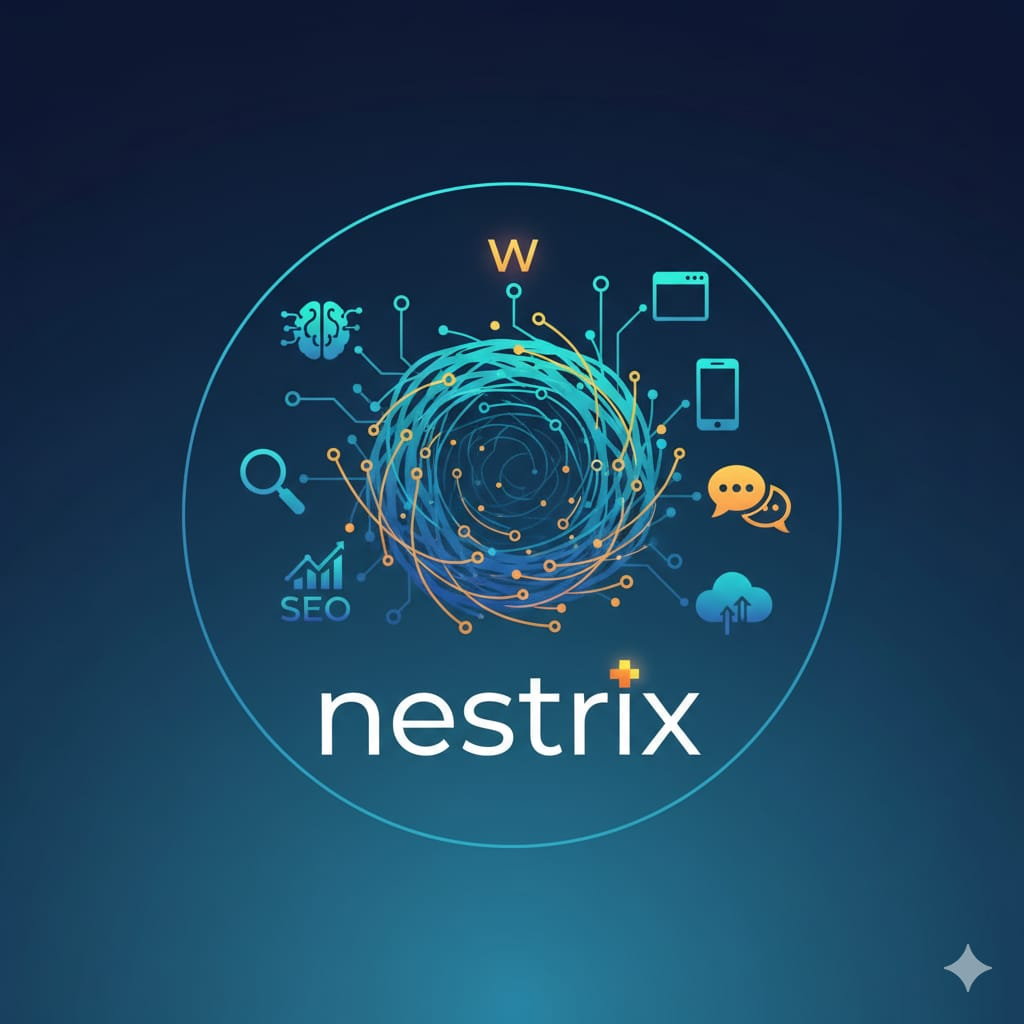
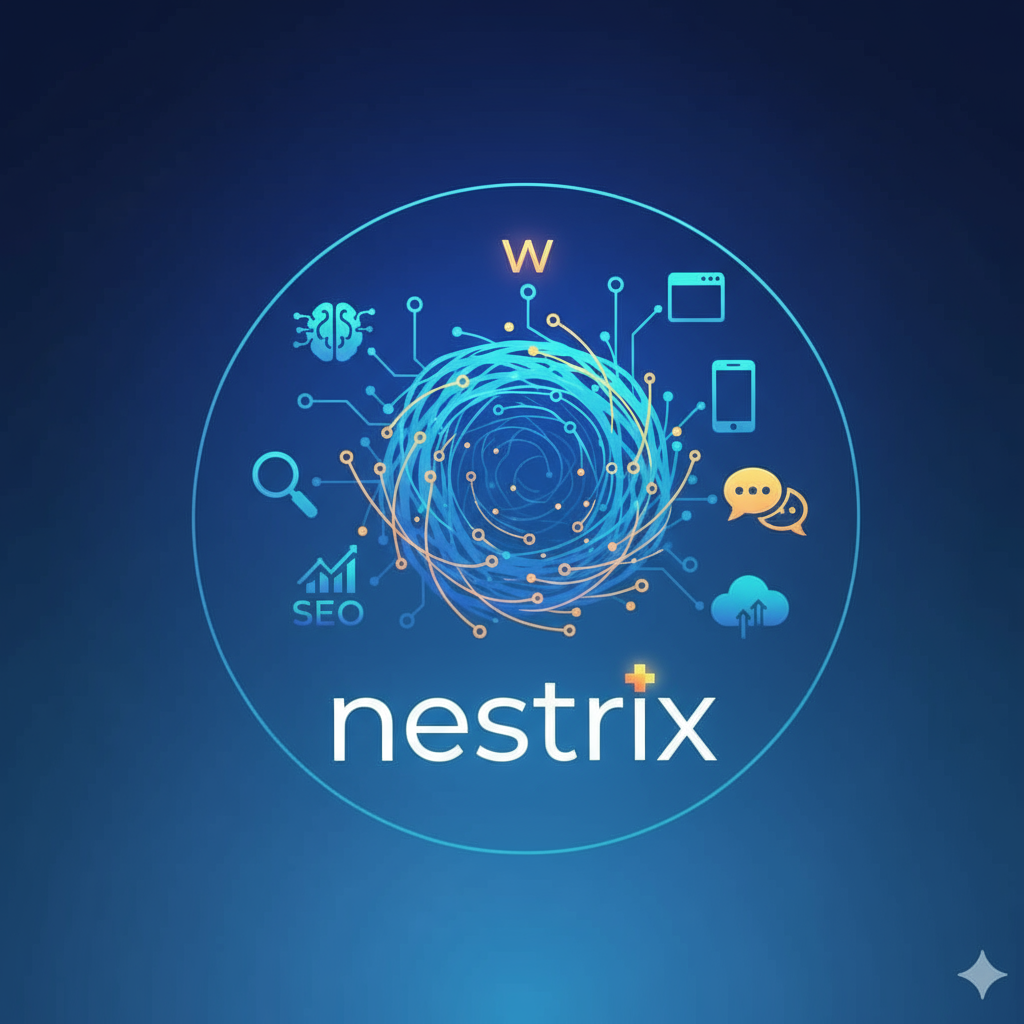
Refactor: Improve visuals and mobile optimization

diff --git a/src/components/OurWorkSection.tsx b/src/components/OurWorkSection.tsx
@@ -45,6 +45,8 @@ export const OurWorkSection = () => {
   const [currentIndex, setCurrentIndex] = useState(0);
   const [isVisible, setIsVisible] = useState(false);
   const scrollContainerRef = useRef<HTMLDivElement>(null);
+  const touchStartX = useRef(0);
+  const touchEndX = useRef(0);
 
   useEffect(() => {
     const observer = new IntersectionObserver(
@@ -61,6 +63,23 @@ export const OurWorkSection = () => {
 
     return () => observer.disconnect();
   }, []);
+
+  const handleTouchStart = (e: React.TouchEvent) => {
+    touchStartX.current = e.touches[0].clientX;
+  };
+
+  const handleTouchMove = (e: React.TouchEvent) => {
+    touchEndX.current = e.touches[0].clientX;
+  };
+
+  const handleTouchEnd = () => {
+    if (touchStartX.current - touchEndX.current > 75) {
+      handleNext();
+    }
+    if (touchStartX.current - touchEndX.current < -75) {
+      handlePrevious();
+    }
+  };
 
   const scrollToIndex = (index: number) => {
     if (scrollContainerRef.current) {
@@ -122,6 +141,9 @@ export const OurWorkSection = () => {
           {/* Carousel Container */}
           <div
             ref={scrollContainerRef}
+            onTouchStart={handleTouchStart}
+            onTouchMove={handleTouchMove}
+            onTouchEnd={handleTouchEnd}
             className="flex overflow-x-hidden scroll-smooth snap-x snap-mandatory"
           >
             {works.map((work, index) => (
@@ -129,16 +151,16 @@ export const OurWorkSection = () => {
                 key={index}
                 className="min-w-full snap-center"
               >
-                <div className="grid md:grid-cols-2 gap-8 items-center px-12">
+                <div className="grid md:grid-cols-2 gap-6 md:gap-8 items-center px-4 md:px-12">
                   {/* Left: Content */}
-                  <div className={`space-y-6 ${isVisible ? 'animate-fade-in-up' : 'opacity-0'}`}>
-                    <div className="text-sm text-primary font-semibold uppercase tracking-wider">
+                  <div className={`space-y-4 md:space-y-6 ${isVisible ? 'animate-fade-in-up' : 'opacity-0'}`}>
+                    <div className="text-xs md:text-sm text-primary font-semibold uppercase tracking-wider">
                       Client: {work.client}
                     </div>
-                    <h3 className="text-3xl md:text-4xl font-bold text-foreground">
+                    <h3 className="text-2xl md:text-3xl lg:text-4xl font-bold text-foreground">
                       {work.title}
                     </h3>
-                    <p className="text-lg text-muted-foreground leading-relaxed">
+                    <p className="text-base md:text-lg text-muted-foreground leading-relaxed">
                       {work.description}
                     </p>
                     <Button
@@ -150,12 +172,12 @@ export const OurWorkSection = () => {
                   </div>
 
                   {/* Right: Image */}
-                  <div className={`${isVisible ? 'animate-fade-in' : 'opacity-0'} relative`}>
+                  <div className={`${isVisible ? 'animate-fade-in' : 'opacity-0'} relative mt-6 md:mt-0`}>
                     <div className="relative overflow-hidden rounded-lg shadow-2xl">
                       <img
                         src={work.image}
                         alt={work.title}
-                        className="w-full h-[400px] object-cover transition-transform duration-500 hover:scale-105"
+                        className="w-full h-[250px] md:h-[350px] lg:h-[400px] object-cover transition-transform duration-500 hover:scale-105"
                       />
                       <div className="absolute inset-0 bg-gradient-to-t from-background/50 to-transparent"></div>
                     </div>

diff --git a/src/components/ServiceSection.tsx b/src/components/ServiceSection.tsx
@@ -41,29 +41,29 @@ export const ServiceSection = ({
       className="min-h-screen flex items-center justify-center relative overflow-hidden"
     >
       <div
-        className="absolute inset-0 bg-cover bg-center"
+        className="absolute inset-0 bg-cover bg-center opacity-40"
         style={{ backgroundImage: `url(${image})` }}
       >
-        <div className={`absolute inset-0 ${reverse ? 'bg-gradient-to-l' : 'bg-gradient-to-r'} from-background via-background/95 to-background/80`}></div>
+        <div className={`absolute inset-0 ${reverse ? 'bg-gradient-to-l' : 'bg-gradient-to-r'} from-background/60 via-background/70 to-background/80`}></div>
       </div>
 
-      <div className="relative z-10 container mx-auto px-4">
-        <div className={`grid md:grid-cols-2 gap-12 items-center ${reverse ? 'md:grid-flow-dense' : ''}`}>
+      <div className="relative z-10 container mx-auto px-4 py-8 md:py-0">
+        <div className={`grid md:grid-cols-2 gap-8 md:gap-12 items-center ${reverse ? 'md:grid-flow-dense' : ''}`}>
           <div className={`${reverse ? 'md:col-start-2' : ''} ${isVisible ? 'animate-fade-in-up' : 'opacity-0'}`}>
-            <h2 className="text-4xl md:text-5xl font-bold mb-6 text-foreground">
+            <h2 className="text-3xl md:text-4xl lg:text-5xl font-bold mb-4 md:mb-6 text-foreground">
               {title}
             </h2>
-            <p className="text-lg text-muted-foreground mb-8">
+            <p className="text-base md:text-lg text-muted-foreground mb-6 md:mb-8">
               {description}
             </p>
-            <ul className="space-y-4 mb-8">
+            <ul className="space-y-3 md:space-y-4 mb-6 md:mb-8">
               {features.map((feature, index) => (
                 <li
                   key={index}
-                  className="flex items-start gap-3 text-foreground"
+                  className="flex items-start gap-3 text-foreground text-sm md:text-base"
                   style={{ animationDelay: `${index * 100}ms` }}
                 >
-                  <ArrowRight className="h-5 w-5 text-primary mt-1 flex-shrink-0" />
+                  <ArrowRight className="h-4 w-4 md:h-5 md:w-5 text-primary mt-1 flex-shrink-0" />
                   <span>{feature}</span>
                 </li>
               ))}

diff --git a/src/components/SectionNavigator.tsx b/src/components/SectionNavigator.tsx
@@ -44,8 +44,8 @@ export const SectionNavigator = () => {
   };
 
   return (
-    <nav className="fixed left-8 top-1/2 -translate-y-1/2 z-50 hidden lg:block">
-      <div className="flex flex-col gap-6">
+    <nav className="fixed left-8 top-1/2 -translate-y-1/2 z-50 hidden lg:block backdrop-blur-sm">
+      <div className="flex flex-col gap-6 bg-background/30 p-3 rounded-full border border-border/30">
         {sections.map((section) => (
           <button
             key={section.id}
@@ -57,17 +57,17 @@ export const SectionNavigator = () => {
             <div
               className={`w-3 h-3 rounded-full transition-all duration-300 ${
                 activeSection === section.id
-                  ? "bg-primary scale-125"
-                  : "bg-muted-foreground/30 hover:bg-muted-foreground/50"
+                  ? "bg-primary scale-125 shadow-[0_0_10px_hsl(var(--primary)/0.6)]"
+                  : "bg-muted-foreground/40 hover:bg-muted-foreground/60"
               }`}
             />
             
             {/* Label tooltip */}
             <span
-              className={`absolute left-8 whitespace-nowrap px-3 py-1 rounded-md text-sm font-medium transition-all duration-300 ${
+              className={`absolute left-8 whitespace-nowrap px-3 py-1.5 rounded-md text-sm font-medium transition-all duration-300 backdrop-blur-md ${
                 activeSection === section.id
-                  ? "opacity-100 translate-x-0 bg-primary text-primary-foreground"
-                  : "opacity-0 -translate-x-2 bg-muted text-muted-foreground group-hover:opacity-100 group-hover:translate-x-0"
+                  ? "opacity-100 translate-x-0 bg-primary/90 text-primary-foreground shadow-lg"
+                  : "opacity-0 -translate-x-2 bg-background/80 text-foreground border border-border/50 group-hover:opacity-100 group-hover:translate-x-0"
               }`}
             >
               {section.label}

diff --git a/src/components/MobileNavigation.tsx b/src/components/MobileNavigation.tsx
@@ -1,0 +1,58 @@
+import { useState } from "react";
+import { Menu, X } from "lucide-react";
+import { Button } from "@/components/ui/button";
+
+const sections = [
+  { id: "hero", label: "Home" },
+  { id: "services", label: "Services" },
+  { id: "our-work", label: "Our Work" },
+  { id: "about", label: "About" },
+  { id: "contact", label: "Contact" },
+];
+
+export const MobileNavigation = () => {
+  const [isOpen, setIsOpen] = useState(false);
+
+  const scrollToSection = (sectionId: string) => {
+    const element = document.getElementById(sectionId);
+    if (element) {
+      element.scrollIntoView({ behavior: "smooth" });
+      setIsOpen(false);
+    }
+  };
+
+  return (
+    <>
+      {/* Mobile Menu Button */}
+      <Button
+        variant="ghost"
+        size="icon"
+        onClick={() => setIsOpen(!isOpen)}
+        className="fixed top-4 right-4 z-50 lg:hidden bg-background/80 backdrop-blur-sm border border-border/50 hover:bg-background/90"
+        aria-label="Toggle menu"
+      >
+        {isOpen ? <X className="h-6 w-6" /> : <Menu className="h-6 w-6" />}
+      </Button>
+
+      {/* Mobile Menu Overlay */}
+      {isOpen && (
+        <div
+          className="fixed inset-0 bg-background/95 backdrop-blur-md z-40 lg:hidden"
+          onClick={() => setIsOpen(false)}
+        >
+          <nav className="flex flex-col items-center justify-center h-full gap-8">
+            {sections.map((section) => (
+              <button
+                key={section.id}
+                onClick={() => scrollToSection(section.id)}
+                className="text-2xl font-semibold text-foreground hover:text-primary transition-colors duration-300"
+              >
+                {section.label}
+              </button>
+            ))}
+          </nav>
+        </div>
+      )}
+    </>
+  );
+};

diff --git a/src/index.css b/src/index.css
@@ -8,38 +8,38 @@ All colors MUST be HSL.
 
 @layer base {
   :root {
-    --background: 210 50% 10%;
-    --foreground: 180 100% 90%;
+    --background: 210 45% 12%;
+    --foreground: 180 100% 95%;
 
-    --card: 210 45% 15%;
-    --card-foreground: 180 100% 90%;
+    --card: 210 40% 18%;
+    --card-foreground: 180 100% 95%;
 
-    --popover: 210 45% 15%;
-    --popover-foreground: 180 100% 90%;
+    --popover: 210 40% 18%;
+    --popover-foreground: 180 100% 95%;
 
-    --primary: 180 100% 50%;
-    --primary-foreground: 210 50% 10%;
+    --primary: 180 100% 55%;
+    --primary-foreground: 210 50% 8%;
 
-    --secondary: 30 100% 55%;
-    --secondary-foreground: 210 50% 10%;
+    --secondary: 30 100% 60%;
+    --secondary-foreground: 210 50% 8%;
 
-    --muted: 210 40% 25%;
-    --muted-foreground: 180 20% 70%;
+    --muted: 210 35% 30%;
+    --muted-foreground: 180 30% 75%;
 
-    --accent: 180 100% 50%;
-    --accent-foreground: 210 50% 10%;
+    --accent: 180 100% 55%;
+    --accent-foreground: 210 50% 8%;
 
     --destructive: 0 84.2% 60.2%;
     --destructive-foreground: 210 40% 98%;
 
-    --border: 210 30% 25%;
-    --input: 210 30% 20%;
-    --ring: 180 100% 50%;
+    --border: 210 30% 30%;
+    --input: 210 30% 25%;
+    --ring: 180 100% 55%;
 
     --radius: 0.5rem;
     
-    --gradient-primary: linear-gradient(135deg, hsl(180 100% 50% / 0.2), hsl(30 100% 55% / 0.2));
-    --shadow-glow: 0 0 40px hsl(180 100% 50% / 0.3);
+    --gradient-primary: linear-gradient(135deg, hsl(180 100% 55% / 0.3), hsl(30 100% 60% / 0.3));
+    --shadow-glow: 0 0 40px hsl(180 100% 55% / 0.4);
 
     --sidebar-background: 0 0% 98%;
 

diff --git a/src/pages/Index.tsx b/src/pages/Index.tsx
@@ -5,6 +5,7 @@ import { AboutSection } from "@/components/AboutSection";
 import { ContactSection } from "@/components/ContactSection";
 import { Footer } from "@/components/Footer";
 import { SectionNavigator } from "@/components/SectionNavigator";
+import { MobileNavigation } from "@/components/MobileNavigation";
 
 import webDevImage from "@/assets/service-webdev.jpg";
 import marketingImage from "@/assets/service-marketing.jpg";
@@ -64,6 +65,7 @@ const Index = () => {
   return (
     <div className="overflow-x-hidden">
       <SectionNavigator />
+      <MobileNavigation />
       <div id="hero">
         <HeroSection />
       </div>

diff --git a/src/components/HeroSection.tsx b/src/components/HeroSection.tsx
@@ -13,7 +13,7 @@ export const HeroSection = () => {
         className="absolute inset-0 bg-cover bg-center"
         style={{ backgroundImage: `url(${heroImage})` }}
       >
-        <div className="absolute inset-0 bg-gradient-to-b from-background/80 via-background/60 to-background"></div>
+        <div className="absolute inset-0 bg-gradient-to-b from-background/70 via-background/50 to-background"></div>
       </div>
       
       <div className="relative z-10 text-center px-4 animate-fade-in-up">
